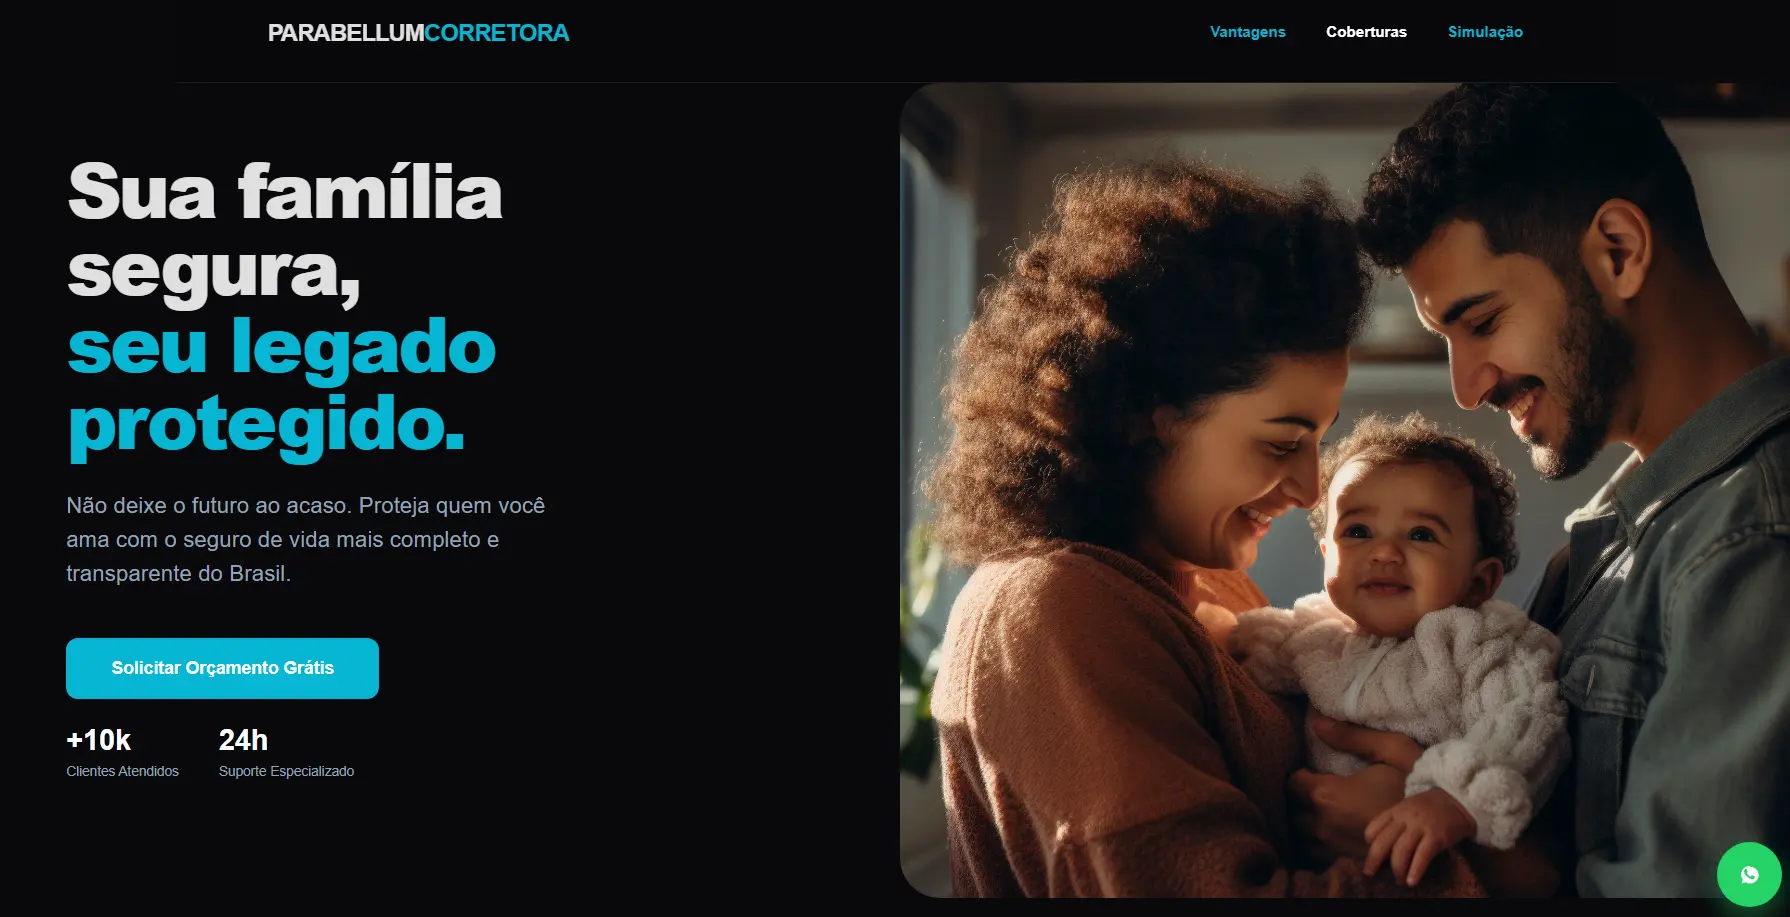
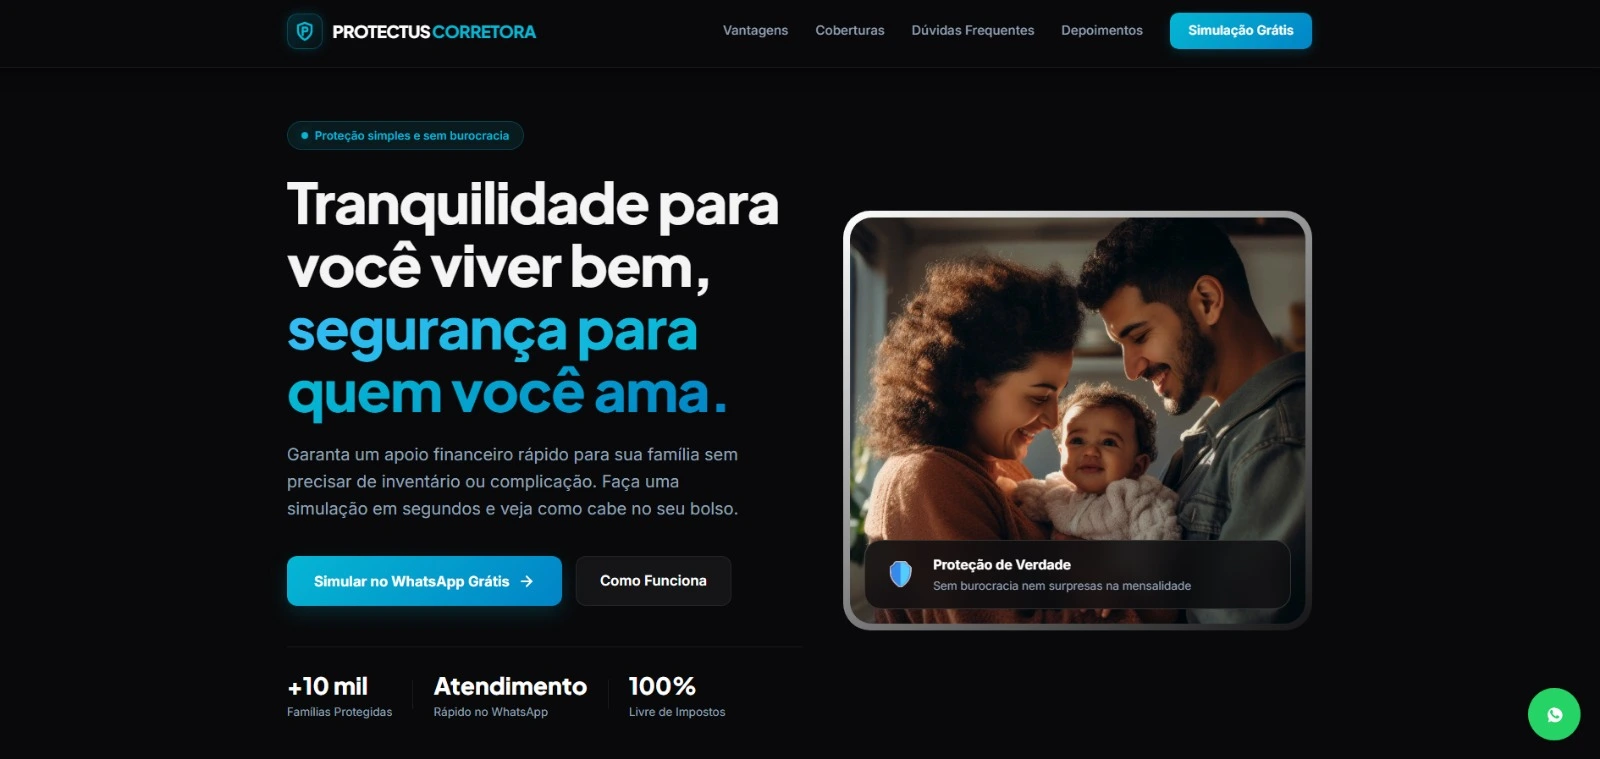
seguradora att

diff --git a/index.html b/index.html
@@ -4,7 +4,7 @@
     <meta charset="UTF-8" />
     <meta name="viewport" content="width=device-width, initial-scale=1.0" />
 
-    <title>Bruno Oliveira | Desenvolvedor Full Stack</title>
+    <title>Bruno Oliveira</title>
 
     <link rel="preconnect" href="https://fonts.googleapis.com" />
     <link rel="preconnect" href="https://fonts.gstatic.com" crossorigin />
